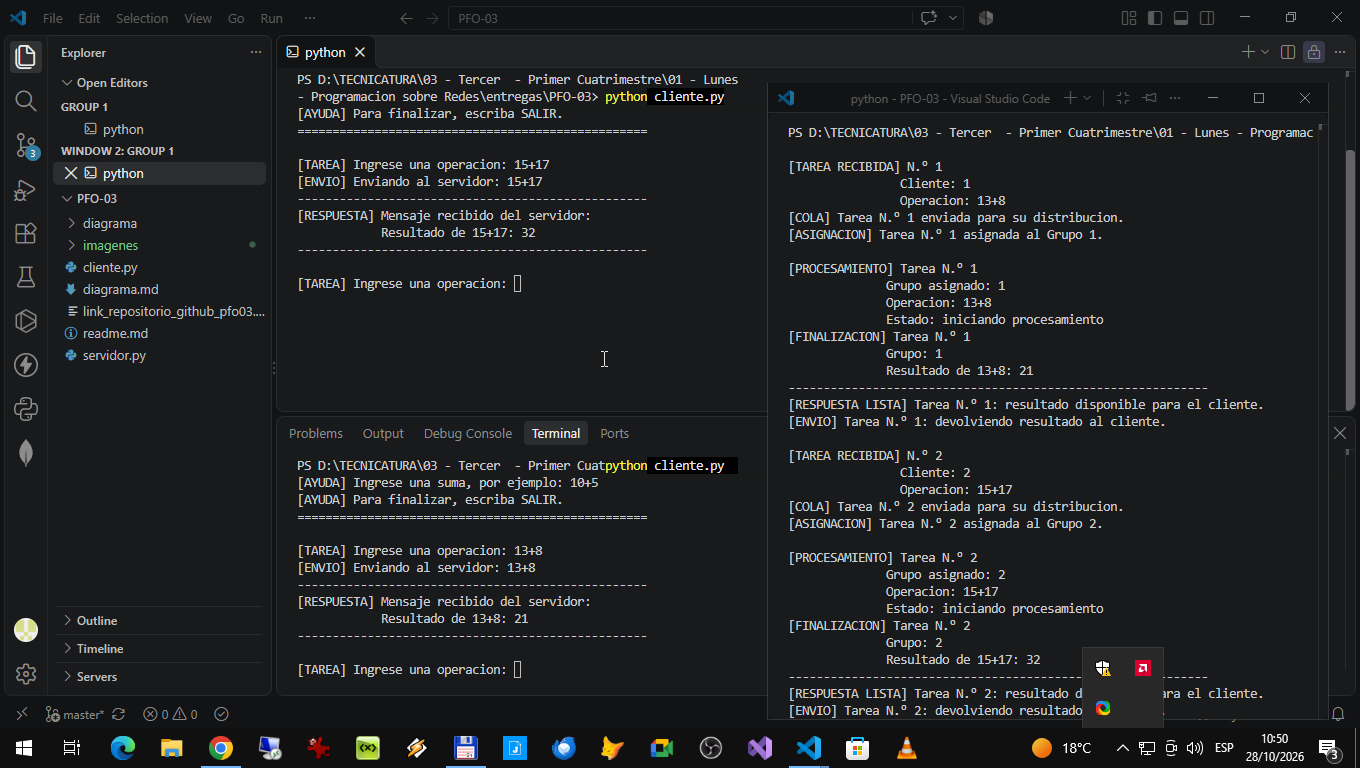
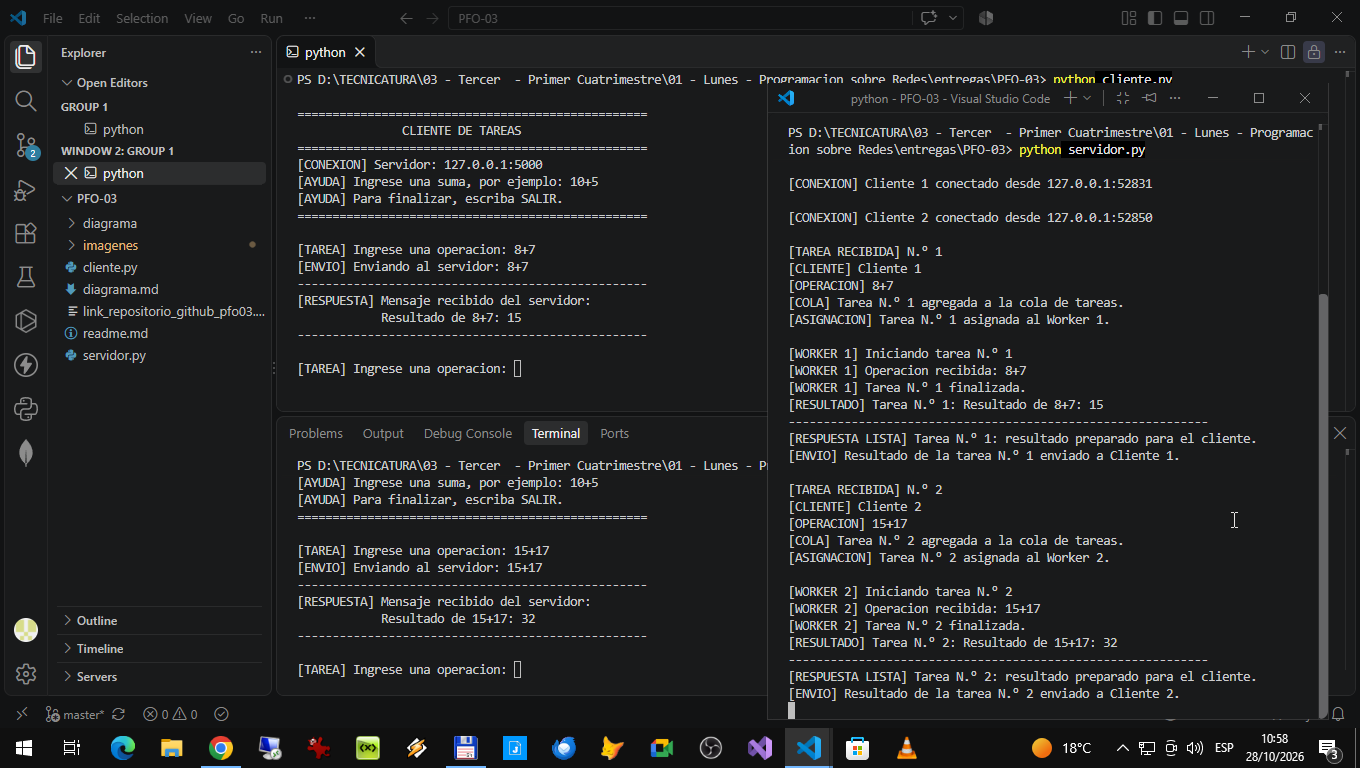
agregado mejores imagenes en pruebas al readme

diff --git a/readme.md b/readme.md
@@ -42,7 +42,9 @@ PFO3/
 `-- imagenes/
     |-- pfo03-imagen01.png ....... Captura imagen servidor iniciado esperando.
     |
-    `-- pfo03-imagen04.png ....... Captura imagen servidor y clientes procesando.
+    |-- pfo03-imagen02.png ....... Captura imagen clientes iniciados esperando.
+
+    `-- pfo03-imagen03.png ....... Captura imagen servidor y clientes procesando.
 ```
 
 
@@ -105,5 +107,8 @@ el funcionamiento de los programas.
 ### Servidor inciado esperando
 ![Servidor Esperando](imagenes/pfo03-imagen01.png)
 
-### Servidor y clientes procesando
-![Servidor y Clientes Procesando](imagenes/pfo03-imagen04.png)
+### Clientes iniciados esperando
+![Clientes iniciados en espera](imagenes/pfo03-imagen02.png)
+
+### Servidos y Clientes procesando
+![Servidor y Clientes procesando](imagenes/pfo03-imagen03.png)
